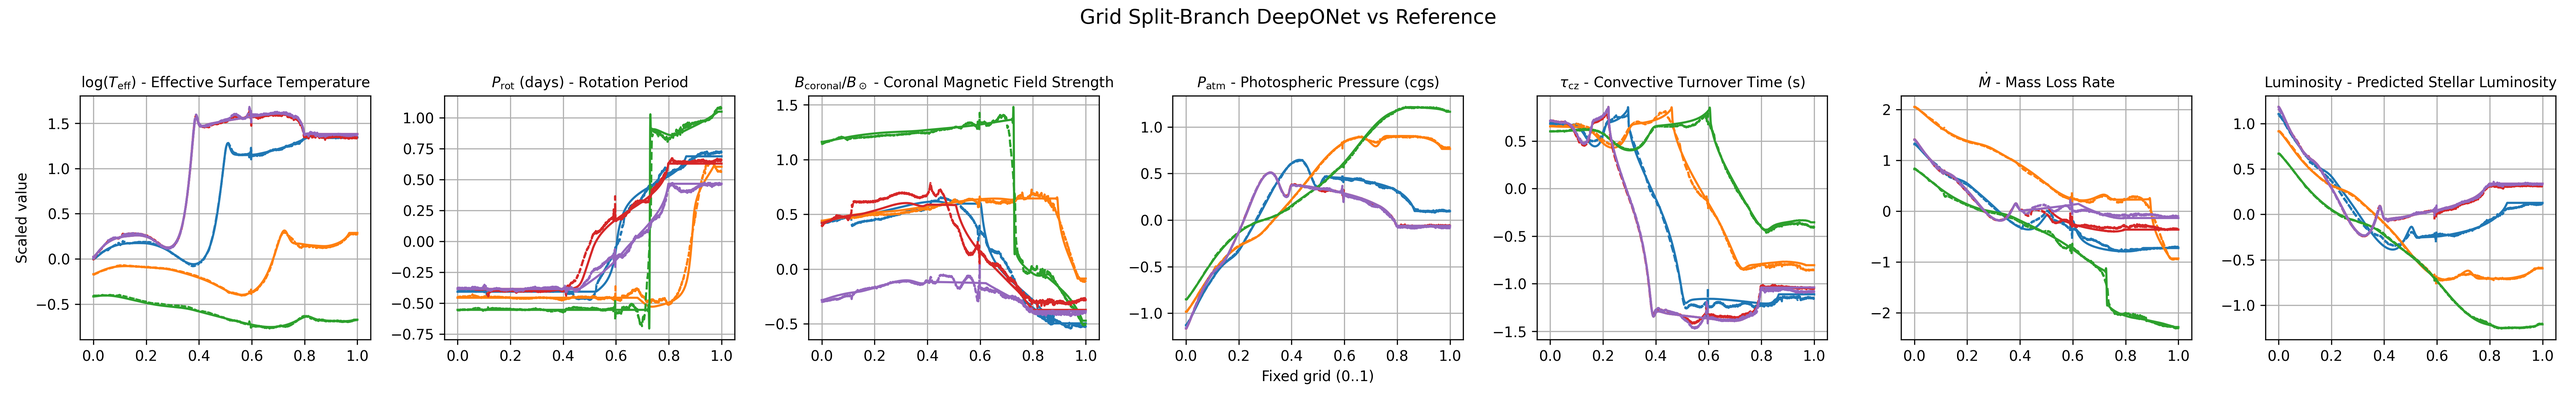
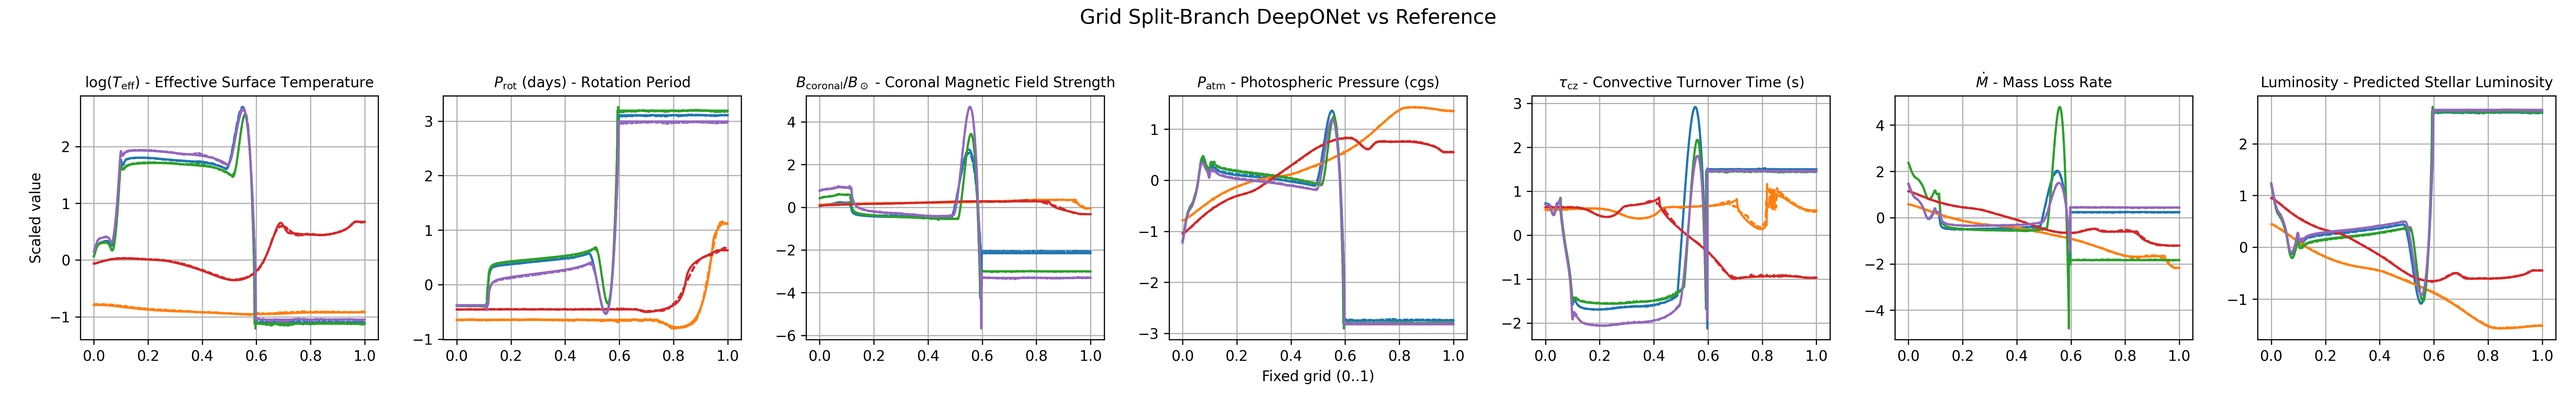
tuned params

diff --git a/main_grid_split_don.py b/main_grid_split_don.py
@@ -1,5 +1,5 @@
 import os
-os.environ["CUDA_VISIBLE_DEVICES"] = "3"
+os.environ["CUDA_VISIBLE_DEVICES"] = "0"
 
 import jax
 import jax.numpy as jnp
@@ -21,15 +21,17 @@ PLOTS_DIR = "plots_grid_split_don"
 
 SEED = 0
 
+#{'learning_rate': 0.0011755636775666748, 'latent_dim': 516, 'num_layers': 5, 'activation': 'gelu', 'use_curve_bias': True}
+
 DEFAULT_MODEL_CFG = dict(
-    latent_dim=512,
-    num_layers=3,
-    activation_name="tanh",
+    latent_dim=516,
+    num_layers=5,
+    activation_name="gelu",
     use_curve_bias=True,
 )
 
 DEFAULT_TRAIN_CFG = dict(
-    lr=7e-4,
+    lr=0.0011755636775666748,
     num_epochs=500,
     batch_size=256,
     l2_reg=0.0,
@@ -216,7 +218,7 @@ elif mode == "predict":
     ]
 
     num_examples = 5
-    rng = np.random.default_rng(123)
+    rng = np.random.default_rng(12)
     idxs = rng.integers(low=0, high=output_test.shape[0], size=num_examples)
 
     colors = plt.cm.tab10.colors[:num_examples]
